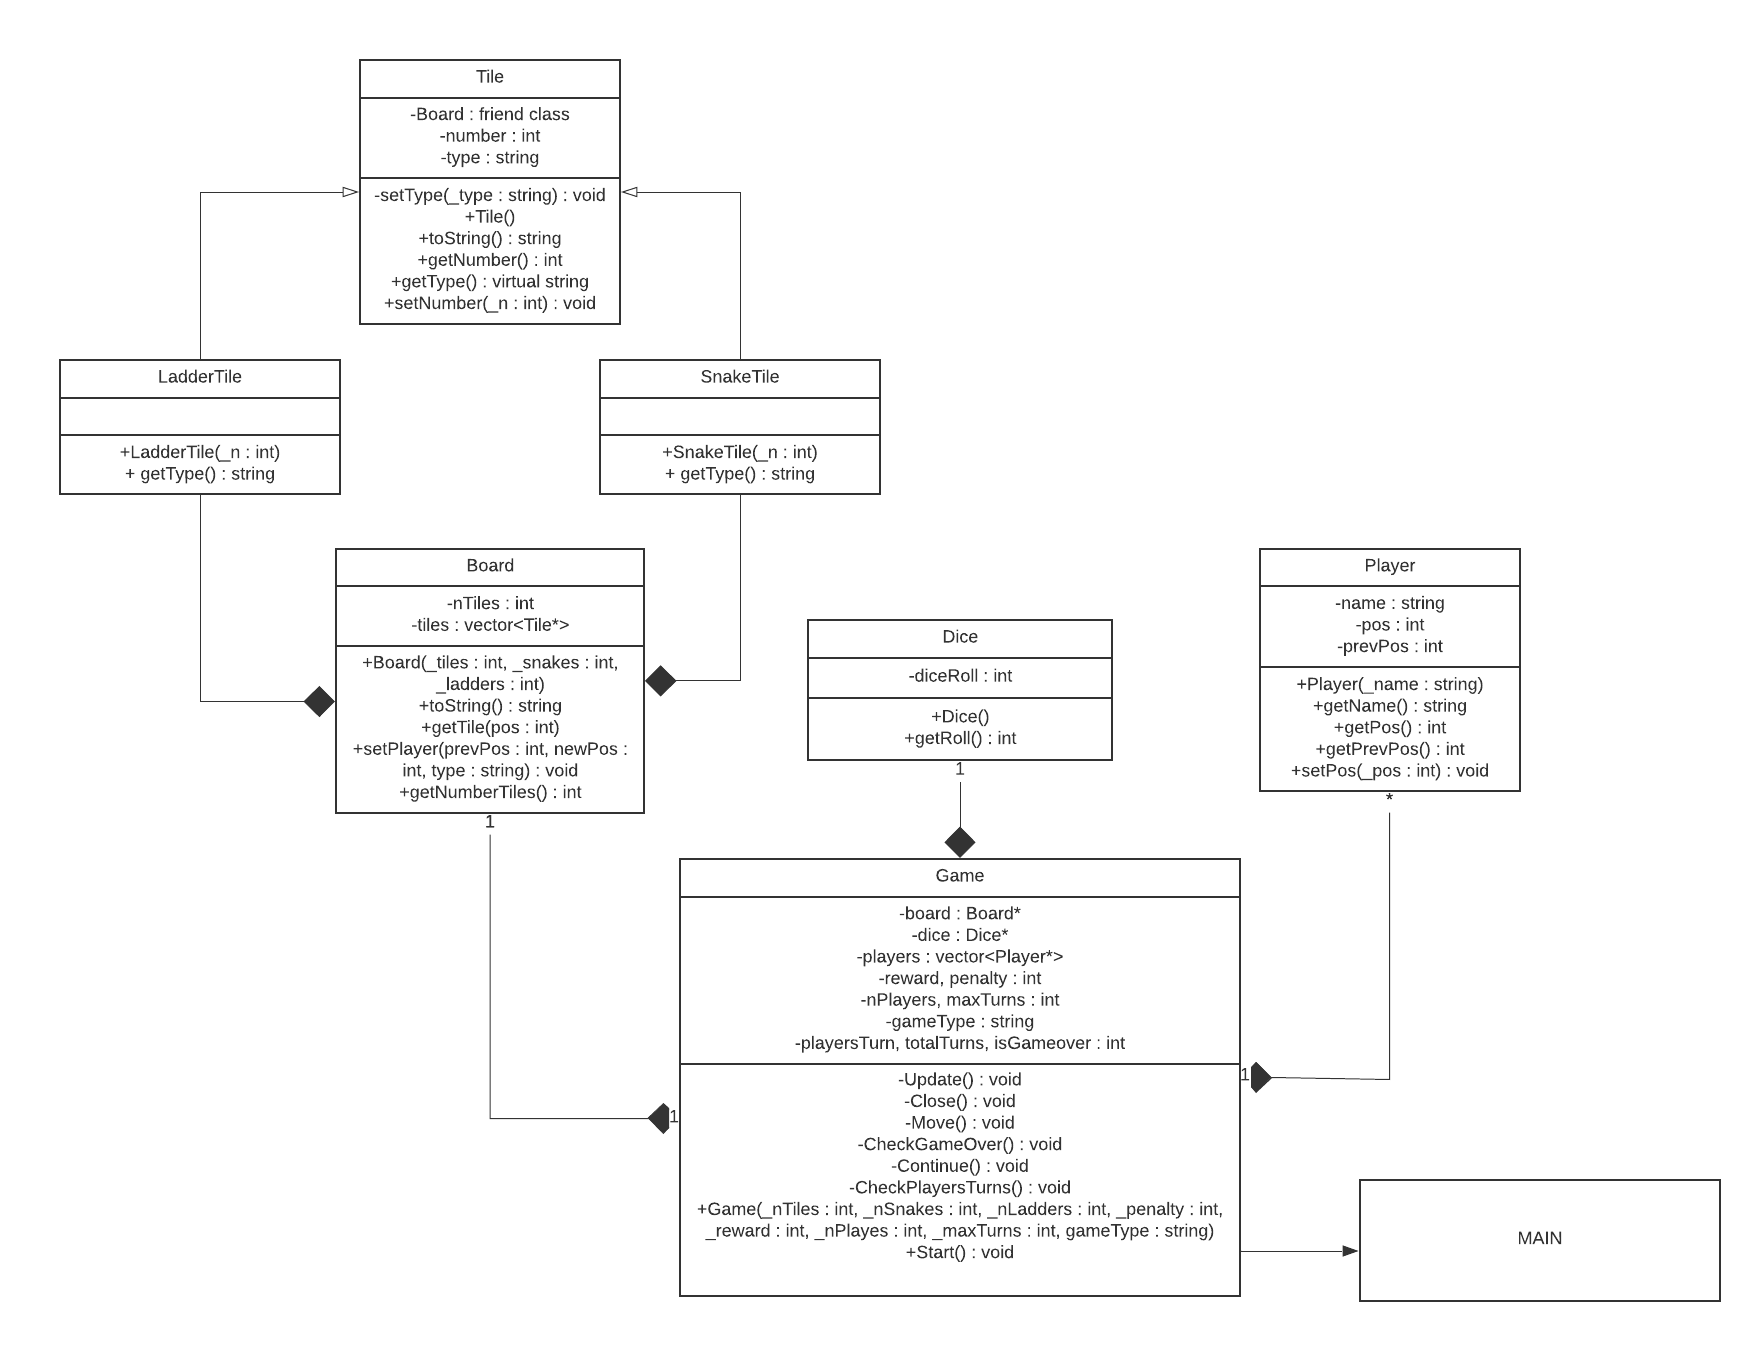
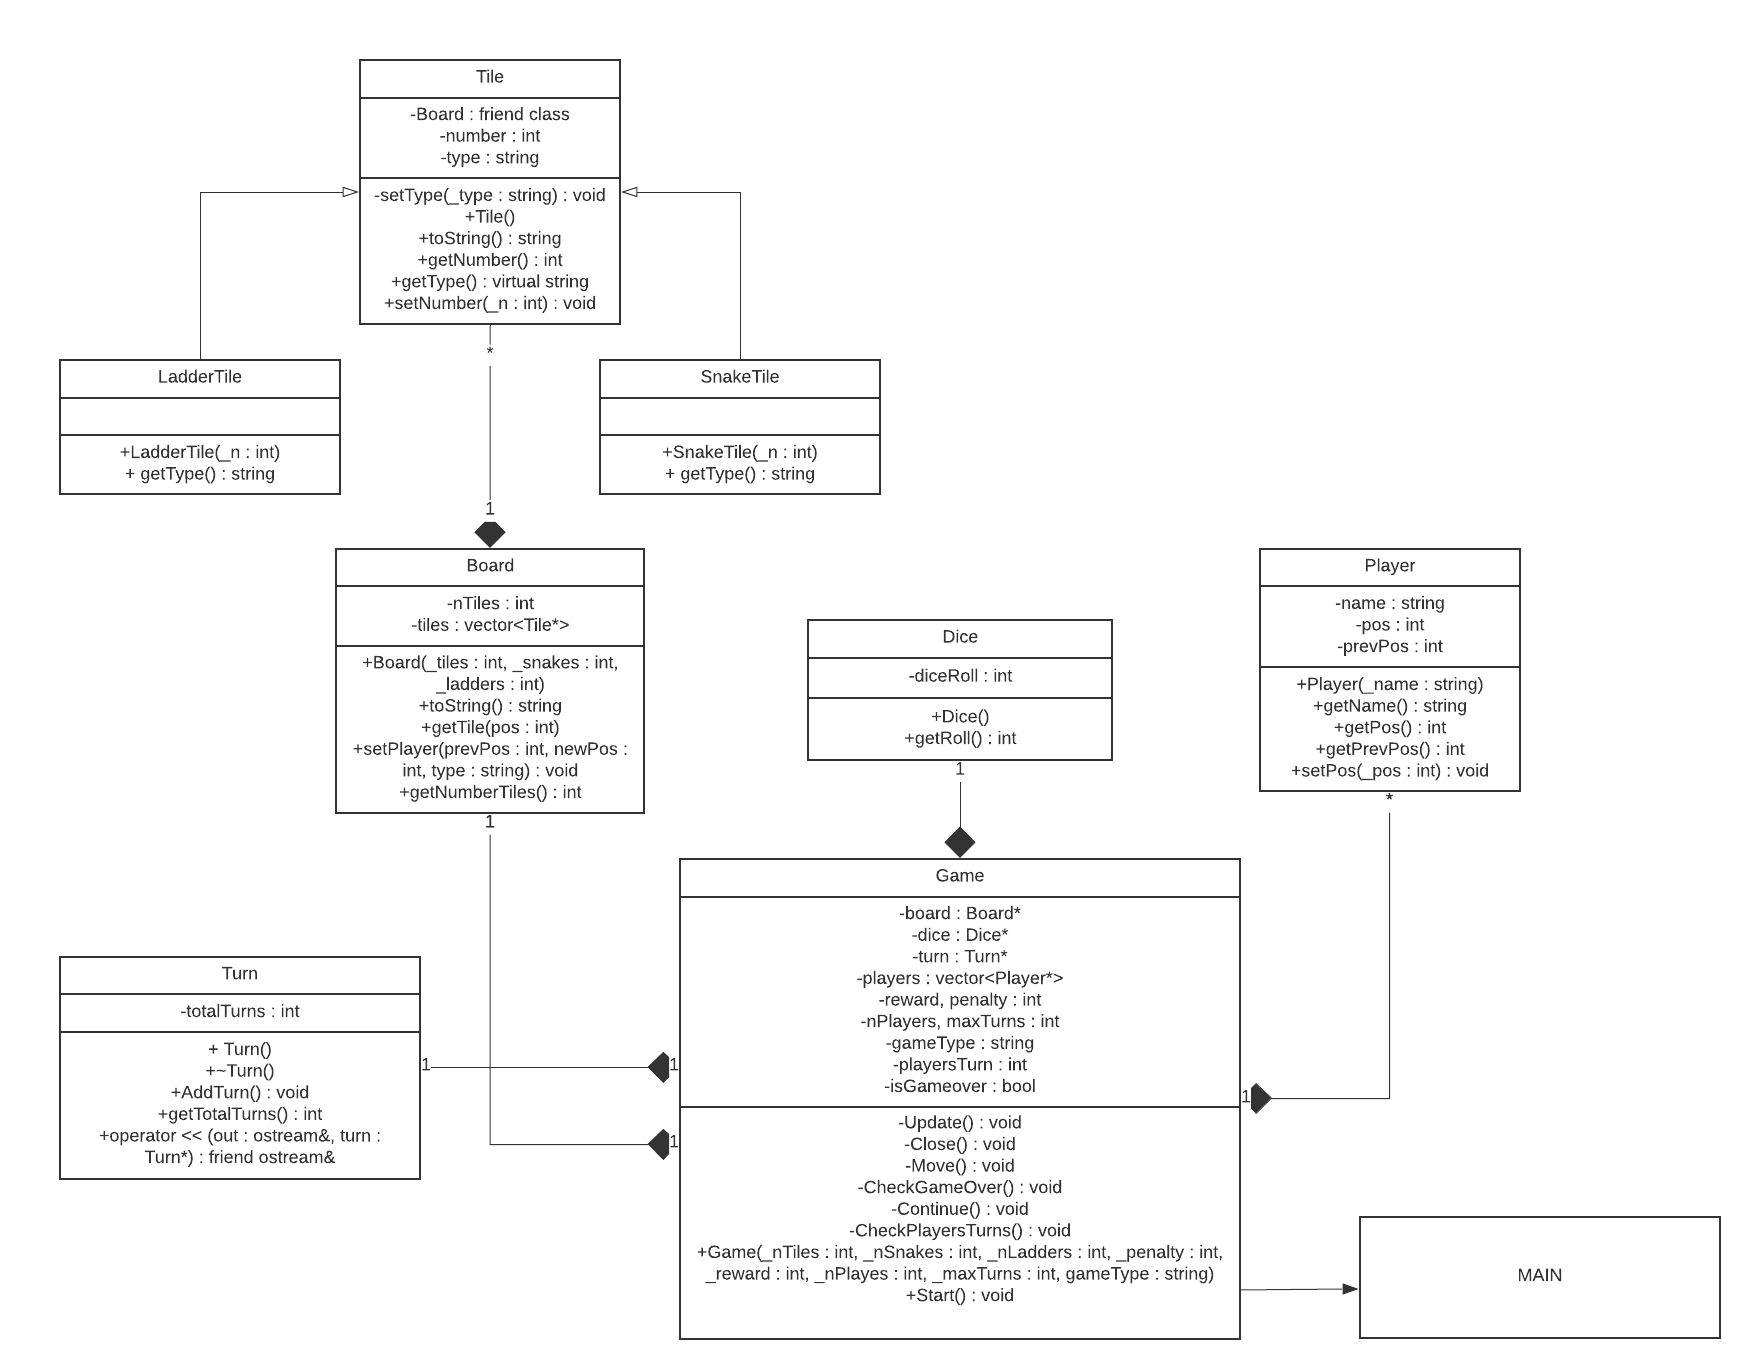
Operator Overloading added

diff --git a/Game.cpp b/Game.cpp
@@ -10,7 +10,6 @@ Game::Game(int _nTiles, int _nSnakes, int _nLadders, int _penalty, int _reward, 
 	gameType = _gameType;
 
 	playersTurn = 0;
-	totalTurns = 1;
 	isGameover = false;
 
 	for (int i = 0; i < nPlayers; i++) {
@@ -31,13 +30,13 @@ void Game::Start() {
 void Game::Updated() {
 	if (gameType == "A") {
 		cout << "The simulation will run automatically" << endl;
-		while (!isGameover && totalTurns <= maxTurns) {
+		while (!isGameover && turn->getTotalTurns() <= maxTurns) {
 			cout << "There are only #" + to_string(maxTurns) + " turns" << endl;
-			cout << "Turn #" + to_string(totalTurns) << endl;
+			cout << turn;
 			cout << "Is the turn of Player #" + to_string(playersTurn+1) + " " + players[playersTurn]->getName() << endl;
 			Move();
 			board->setPlayer(players[playersTurn]->getPrevPos() - 1, players[playersTurn]->getPos() - 1, to_string(playersTurn + 1));
-			cout << board->toString() << endl;
+			board->toString();
 			CheckGameOver();
 			CheckPlayersTurns();
 			system("CLS");
@@ -46,11 +45,11 @@ void Game::Updated() {
 	else {
 		cout << "The simulation will run manually " << endl;
 		while (!isGameover) {
-			cout << "Turn #" + to_string(totalTurns) << endl;
+			cout << turn;
 			cout << "Is the turn of Player #" + to_string(playersTurn + 1) + " " + players[playersTurn]->getName() << endl;
 			Move();
 			board->setPlayer(players[playersTurn]->getPrevPos() - 1, players[playersTurn]->getPos() - 1, to_string(playersTurn + 1));
-			cout << board->toString() << endl;
+			board->toString();
 			CheckGameOver();
 			CheckPlayersTurns();
 			system("CLS");
@@ -60,7 +59,7 @@ void Game::Updated() {
 
 void Game::Close() {
 	cout << "GAMEOVER!" << endl;
-	if (totalTurns >= maxTurns && gameType == "A")
+	if (turn->getTotalTurns() >= maxTurns && gameType == "A")
 		cout << "The  maximum  number  of  turns has  been reached..." << endl;
 	else 
 		cout << players[playersTurn]->getName() + " is the winner!" << endl;
@@ -102,14 +101,14 @@ void Game::Continue() {
 	string temp;
 	do {
 		cout << "Press C to continue next turn or E to end the game: " << endl;
-		getline(cin, temp);
+		cin >> temp;
 		if (temp == "E")
 			exit(0);
 	} while (temp != "C");
 }
 
 void Game::CheckPlayersTurns() {
-	totalTurns++;
+	turn->AddTurn();
 	if (players[playersTurn]->getPos() < board->getNumberTiles())
 		if (playersTurn >= nPlayers - 1)
 			playersTurn = 0;

diff --git a/LadderTile.cpp b/LadderTile.cpp
@@ -1,7 +1,18 @@
 #include "LadderTile.h"
 
-LadderTile::LadderTile(int _n) : Tile(_n) {	}
+LadderTile::LadderTile(int _n) : Tile(_n) { reward = 3; }
 
 LadderTile::~LadderTile() { }
 
 string LadderTile::getType() { return "L"; }
+
+int LadderTile::getBonus() { return getReward(); }
+
+int LadderTile::getReward() { return reward; }
+
+void LadderTile::setReward(int _reward) { reward = _reward; }
+
+ostream& operator<<(ostream& out, LadderTile* lt) {
+	out << lt->toString();
+	return out;
+}

diff --git a/SnakeTile.cpp b/SnakeTile.cpp
@@ -1,7 +1,18 @@
 #include "SnakeTile.h"
 
-SnakeTile::SnakeTile(int _n) : Tile(_n) { }
+SnakeTile::SnakeTile(int _n) : Tile(_n) { penalty = -3; }
 
 SnakeTile::~SnakeTile() { }
 
 string SnakeTile::getType() { return "S"; }
+
+int SnakeTile::getBonus() { return getPenalty(); }
+
+int SnakeTile::getPenalty() { return penalty; }
+
+void SnakeTile::setPenalty(int _penalty) { penalty = _penalty; }
+
+ostream& operator<<(ostream& out, SnakeTile* st) {
+	out << st->toString();
+	return out;
+}

diff --git a/Tile.cpp b/Tile.cpp
@@ -10,8 +10,17 @@ string Tile::toString() { return getType(); }
 
 int Tile::getNumber() { return number; }
 
+int Tile::getBonus() { 	return 0; }
+
 string Tile::getType() { return type; }
 
 void Tile::setNumber(int _n) { number = _n; }
 
+int Tile::operator+(Tile& t) { return this->number + t.getBonus(); }
+
 void Tile::setType(string _type) { type = _type; }
+
+ostream& operator<<(ostream& out, Tile* tile) {
+	out << tile->toString();
+	return out;
+}

diff --git a/Board.cpp b/Board.cpp
@@ -23,17 +23,12 @@ Board::Board(int _tiles, int _snakes, int _ladders) {
 
 Board::~Board() { }
 
-string Board::toString() {
-	string msg = "";
-	
+void Board::toString() {
 	for (int t = 0; t < nTiles; t++) {
-		msg += tiles[t]->toString();
-		msg += "\t";
-		if ((t+1) % 10 == 0)
-			msg += "\n";
+		cout << tiles[t]->toString() + "\t";
+		if ((t + 1) % 10 == 0)
+			cout << "\n";
 	}
-
-	return msg;
 }
 
 string Board::getTile(int pos) { 

diff --git a/Game.h b/Game.h
@@ -5,6 +5,7 @@
 #include "Board.h"
 #include "Player.h"
 #include "Dice.h"
+#include "Turn.h"
 
 using namespace std;
 
@@ -15,6 +16,7 @@ class Game {
 private:
 	Board* board;
 	Dice* dice = new Dice();
+	Turn* turn = new Turn();
 	vector<Player*>players;
 
 	int reward;
@@ -24,7 +26,6 @@ private:
 	string gameType;
 
 	int playersTurn;
-	int totalTurns;
 	bool isGameover;
 
 	void Updated();

diff --git a/LadderTile.h b/LadderTile.h
@@ -8,11 +8,18 @@ using namespace std;
 #define LADDER_TILE
 
 class LadderTile : public Tile {
+private:
+	int reward;
+
 public:
 	LadderTile(int _n);
 	~LadderTile();
 
 	string getType();
+	int getBonus();
+	int getReward();
+	void setReward(int _reward);
+	friend ostream& operator << (ostream& out, LadderTile* lt);
 };
 
 #endif // !LADDER_TILE

diff --git a/SnakeTile.h b/SnakeTile.h
@@ -8,11 +8,18 @@ using namespace std;
 #define SNAKE_TILE
 
 class SnakeTile : public Tile {
+private:
+	int penalty;
+
 public:
 	SnakeTile(int _n);
 	~SnakeTile();
 
 	string getType();
+	int getBonus();
+	int getPenalty();
+	void setPenalty(int _penalty);
+	friend ostream& operator << (ostream& out, SnakeTile* st);
 };
 
 #endif // !SNAKE_TILE

diff --git a/Turn.h b/Turn.h
@@ -1,0 +1,23 @@
+#pragma once
+#include <iostream>
+#include <string>
+
+using namespace std;
+
+#ifndef TURN
+#define TURN
+
+class Turn {
+private:
+	int totalTurns;
+
+public:
+	Turn();
+	~Turn();
+
+	void AddTurn();
+	int getTotalTurns();
+	friend ostream& operator << (ostream& out, Turn* turn);
+};
+
+#endif // !TURN

diff --git a/Turn.cpp b/Turn.cpp
@@ -1,0 +1,14 @@
+#include "Turn.h"
+
+Turn::Turn() { totalTurns = 1; }
+
+Turn::~Turn() { }
+
+void Turn::AddTurn() { totalTurns++; }
+
+int Turn::getTotalTurns() { return totalTurns; }
+
+ostream& operator<<(ostream& out, Turn* turn) {
+	out << "Turn #" << to_string(turn->getTotalTurns()) << "\n";
+	return out;
+}

diff --git a/Tile.h b/Tile.h
@@ -21,8 +21,11 @@ public:
 
 	string toString();
 	int getNumber();
+	virtual int getBonus();
 	virtual string getType();
 	void setNumber(int _n);
+	friend ostream& operator << (ostream& out, Tile* tile);
+	int operator+(Tile& t);
 };
 
 #endif // !TILE

diff --git a/Board.h b/Board.h
@@ -20,7 +20,7 @@ public:
 	Board(int _tiles, int _snakes, int _ladders);
 	~Board();
 
-	string toString();
+	void toString();
 	string getTile(int pos);
 	void setPlayer(int prevPos, int newPos, string type);
 	int getNumberTiles();
